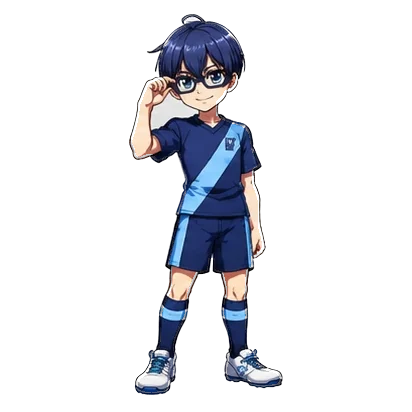
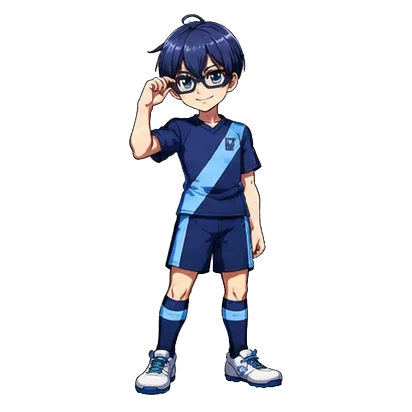
v0.6.7：キャラの白い消し残りと、指・腕のふちの欠けを直す
- キャラ10人をもとのシートから切り出し直し、腕や髪のすき間の白い背景を消した
- 明るい肌を背景と見まちがえて、指や腕のふちが欠けていたのを直した
- slice_sheet.py：--holes をマスごとに指定できるようにし、--clear を追加
- 切り出しの設定を docs/キャラ切り出し設定.md に記録
- バージョンを 0.6.7 に更新

diff --git a/sw.js b/sw.js
@@ -1,6 +1,6 @@
 /* オフラインでも起動できるようにする Service Worker
    アプリを更新したら VERSION を上げると、古いキャッシュが入れかわる */
-const VERSION = 'rq-0.6.6';
+const VERSION = 'rq-0.6.7';
 const CORE = ['./', './index.html', './app.css', './app.js', './manifest.webmanifest',
   './icons/icon-192.png', './icons/icon-512.png', './icons/apple-touch-icon.png', './fonts/fonts.css'];
 

diff --git a/app.js b/app.js
@@ -351,7 +351,7 @@ function dressed(s,over){
 }
 
 /* ===== アプリ内ダイアログ（ブラウザ標準の alert/confirm は使わない） ===== */
-const APP_VERSION='0.6.6';
+const APP_VERSION='0.6.7';
 function closeOv(){document.getElementById('ov').classList.remove('show')}
 function dialog({icon='',title,msg='',ok='OK',cancel=null,danger=false}){
   return new Promise(res=>{

diff --git a/tools/slice_sheet.py b/tools/slice_sheet.py
@@ -53,6 +53,16 @@ def drop_shadow(im, top):
                     px[nx, ny] = (0, 0, 0, 0)
                     stack.append((nx, ny))
 
+def clear_rect(im, rect, everything):
+    """四角の中の 白〜明るい灰色（消し残り）だけを消す。everything なら 中身を全部消す"""
+    x0, y0, x1, y1 = rect
+    px = im.load()
+    for y in range(y0, y1):
+        for x in range(x0, x1):
+            r, g, b, a = px[x, y]
+            if a and (everything or (min(r, g, b) >= 150 and max(r, g, b) - min(r, g, b) < 45)):
+                px[x, y] = (0, 0, 0, 0)
+
 def defringe(im, seed_colors, band=3, full=60):
     """ふちの色戻し：背景（灰色）と混ざった ふちの画素から背景の色を取りのぞき、
     本来の絵の色と なめらかな透明度に戻す（白っぽいフチ・ガビガビを消す）"""
@@ -149,11 +159,22 @@ def main():
     ap.add_argument('--size', type=int, default=512); ap.add_argument('--tol', type=int, default=40)
     ap.add_argument('--pad', type=float, default=0.0, help='外側の余白（割合）')
     ap.add_argument('--keep', type=float, default=0.03, help='これより小さい かけら（本体比）を消す。記号を残したいときは小さく')
-    ap.add_argument('--holes', default='', help='外側とつながっていない背景を消す。マス内の座標を "x,y;x,y" で（1マスの画像向け）')
+    ap.add_argument('--holes', default='', help='外側とつながっていない背景を消す。マス内の座標を "x,y;x,y" で。何人も並ぶシートは "マス番号:x,y"（例 2:243,161）')
     ap.add_argument('--shadow', type=float, default=0.0, help='足元の影を消す。この高さ（割合。例 0.92）より下の灰色が対象')
+    ap.add_argument('--clear', default='', help='四角の中の白い消し残りを消す。"マス番号:x0,y0,x1,y1" を ; で。最後に ! を付けると中身を全部消す')
     ap.add_argument('--band', type=int, default=3, help='ふちの色戻しの幅（px）。大きな1人絵で輪郭線の内側が欠けるときは 1 に')
     a = ap.parse_args()
-    holes = [tuple(int(n) for n in e.split(',')) for e in a.holes.split(';') if e]
+    clears = []  # (マスの番号, x0, y0, x1, y1, 全部消すか)
+    for e in a.clear.split(';'):
+        if e:
+            no, _, v = e.rpartition(':')
+            everything = v.endswith('!')
+            clears.append((int(no) if no else 0, *(int(n) for n in v.rstrip('!').split(',')), everything))
+    holes = []   # (マスの番号 1〜, x, y)。番号なしは 全部のマス
+    for e in a.holes.split(';'):
+        if e:
+            no, _, xy = e.rpartition(':')
+            holes.append((int(no) if no else 0, *(int(n) for n in xy.split(','))))
     names = [n.strip() for n in a.names.split(',') if n.strip()]
     sheet = Image.open(a.src).convert('RGBA')
     W, H = sheet.size
@@ -164,7 +185,11 @@ def main():
     for j in range(a.rows):
         for i in range(a.cols):
             box = (round(x0+i*cw), round(y0+j*ch), round(x0+(i+1)*cw), round(y0+(j+1)*ch))
-            cell = trim_square(drop_fragments(remove_bg(sheet.crop(box), a.tol, holes, a.shadow, a.band), a.keep))
+            cut = remove_bg(sheet.crop(box), a.tol, [(x, y) for no, x, y in holes if no in (0, k+1)], a.shadow, a.band)
+            for no, *rect, everything in clears:
+                if no in (0, k+1):
+                    clear_rect(cut, rect, everything)
+            cell = trim_square(drop_fragments(cut, a.keep))
             if cell.width > a.size:
                 cell = cell.resize((a.size, a.size), Image.LANCZOS)
             name = names[k] if k < len(names) else f'item-{k+1}'

diff --git a/docs/キャラ切り出し設定.md b/docs/キャラ切り出し設定.md
@@ -1,0 +1,7 @@
+# キャラ10人（characters-idea.webp）の切り出し設定
+
+もう一度切り出すときは、この設定をそのまま使う（白い消し残りと、指のふちの欠けを防ぐため）。
+
+```
+python tools/slice_sheet.py img/sheets/characters-idea.webp 5 2 img/chars idea-1,idea-2,idea-3,idea-4,idea-5,idea-6,idea-7,idea-8,idea-9,idea-10 --tol 30 --band 1 --holes "1:267,218;2:243,161;2:168,166;3:173,103;3:192,13;5:237,214;5:237,208;6:163,85;7:280,158;7:262,159;7:265,163;8:153,113;8:248,51;8:251,55;8:182,107;9:207,108;9:219,113;9:172,107;9:156,107;9:238,69;9:118,131;9:223,207;9:136,64;9:225,212;10:215,157;10:262,48" --clear "2:236,197,245,201;2:241,39,247,46;2:234,32,241,36;6:221,10,229,20;6:257,20,275,48;6:160,78,163,82;7:256,155,268,175;7:153,172,157,181;7:162,160,165,170;8:173,104,194,109;9:219,89,229,98;9:218,178,224,190!;9:218,190,225,196!;9:223,196,228,206!;9:226,206,231,217!;9:228,217,236,225!;9:229,225,238,229!;9:230,229,238,232!;9:231,232,238,236!;9:233,236,238,239!;10:127,73,143,80;10:262,44,266,47!;2:236,197,246,201!;6:222,9,228,17!;7:254,168,269,179;9:215,176,233,232"
+```

diff --git a/CLAUDE.md b/CLAUDE.md
@@ -34,6 +34,7 @@
   - 例：`python tools/slice_sheet.py img/sheets/xxx.webp 5 2 img/items ball-1,ball-2,... --size 320 --tol 30`
   - 1人だけの画像は列数・行数を `1 1` に。腕のすき間の背景は `--holes "x,y;x,y"`、足元の影は `--shadow 0.92`、輪郭の内側が欠けるときは `--band 1`
   - 例：`python tools/slice_sheet.py img/sheets/chara-11.webp 1 1 img/chars idea-11 --size 512 --tol 30 --holes "640,560;378,544;379,268;380,278;467,27" --shadow 0.92 --band 1`
+  - 何人も並ぶシートは、マス番号を付けて指定する（例 `--holes "2:243,161"`）。白い消し残りは `--clear "マス番号:x0,y0,x1,y1"`（最後に `!` で中身を全部消す）。`characters-idea.webp` の設定は `docs/キャラ切り出し設定.md`
   - 小さな記号（Zzz など）を残したいときは `--keep 0.008`
 - 切り出した後は、暗い背景に置いて拡大し、白いフチ・かけらが残っていないか必ず確認する。
 - 実在のチーム名・ロゴ・既存キャラクターの絵は使わない。
